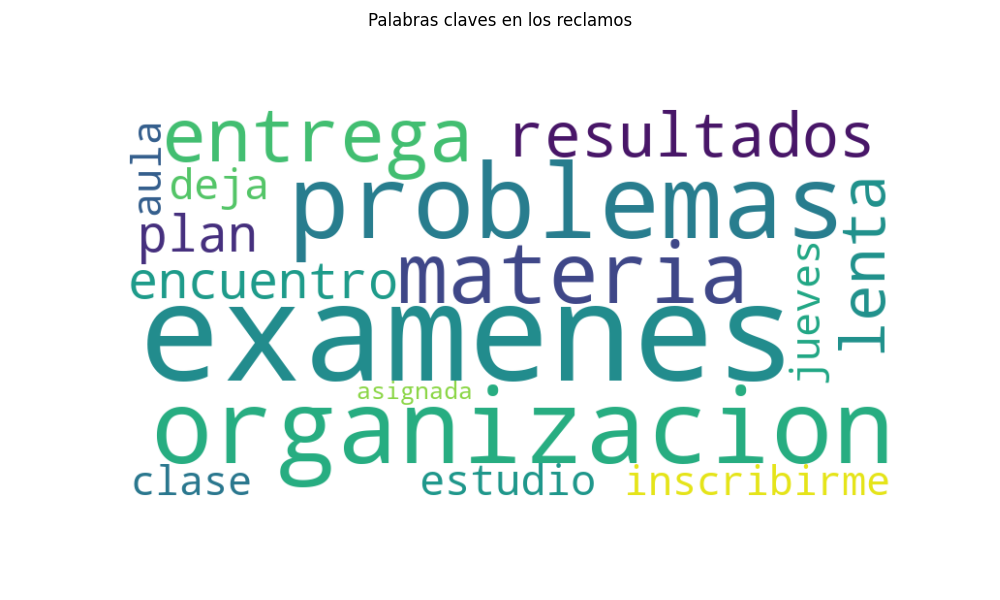
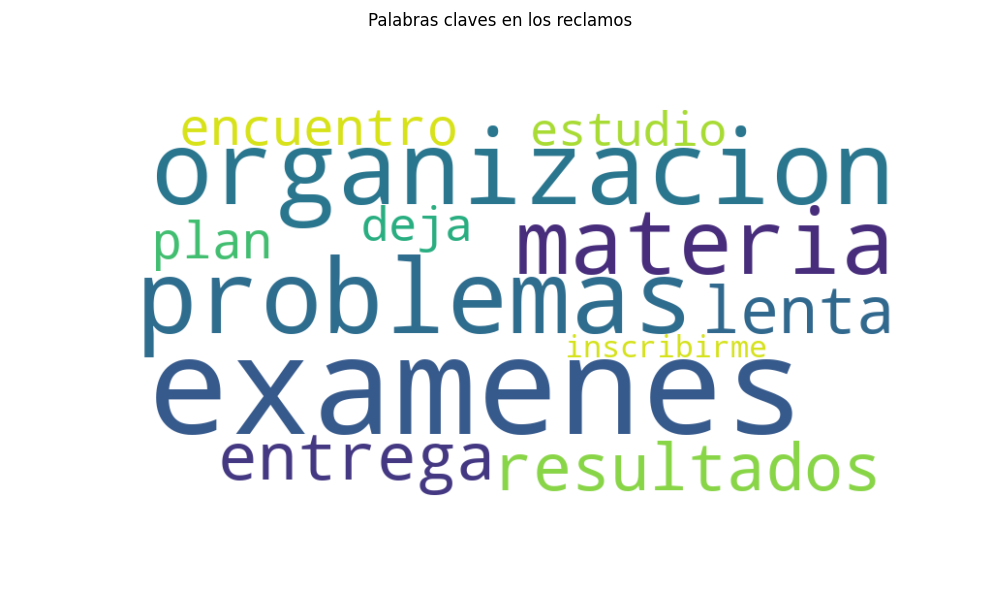
ultima actualizacion

Changed region(s): [[0.124, 0.18, 0.899, 0.84]]

diff --git a/TP 3 Programación/templates/reporte.html b/TP 3 Programación/templates/reporte.html
@@ -73,7 +73,7 @@
                     <h3 class="centrar_element"><u>REPORTE DE RECLAMOS</u></h3><br>
                     <p>Departamento: Departamento de Coordinación Académica</p>
                     <p>Jefe de departamento: Garagarza, Azul </p>
-                    <p>Fecha: 2023-07-05</p>
+                    <p>Fecha: 2023-07-06</p>
                     <table class="table2">
                         <tr>
                             <td><b>ID reclamo</b></td>
@@ -91,7 +91,7 @@
                                 <td>tuve problemas con la organizacion de la materia</td>
                                 <td>joelgaragarza1234@gmail.com</td>
                                 <td>fgaragarza@gmail.com</td>
-                                <td>Pendiente</td>
+                                <td>En proceso</td>
                                 <td>2023-06-28 17:15:27</td>
                             </tr>
                         
@@ -101,7 +101,7 @@
                                 <td>La entrega de resultados de examenes es lenta </td>
                                 <td>joelgaragarza1234@gmail.com</td>
                                 <td></td>
-                                <td>En proceso</td>
+                                <td>Invalido</td>
                                 <td>2023-06-28 17:15:52</td>
                             </tr>
                         
@@ -125,21 +125,11 @@
                                 <td>2023-07-04 20:34:01.937750</td>
                             </tr>
                         
-                            <tr>
-                                <td class="centrar">6</td>
-                                <td>No tengo aula asignada</td>
-                                <td>los jueves a las 14:00hs tengo clase y no tengo aula asignada</td>
-                                <td>usuario_prueba@gmail.com</td>
-                                <td></td>
-                                <td>Pendiente</td>
-                                <td>2023-07-05 22:28:10.328082</td>
-                            </tr>
-                        
                     </table>
                     <h4><b>OBSERVACIONES:</b></h4>
                     <div>
                         <div class="column">
-                          <div class="row"><p>Total de reclamos: 5</p></div>
+                          <div class="row"><p>Total de reclamos: 4</p></div>
                           <div class="row"><p>Reclamos resueltos: 1</p></div>
                           <div class="row"><p>Reclamos en proceso: 1</p></div>
                         </div>
@@ -147,8 +137,8 @@
                         <div class="column"></div>
                         <div class="column"></div>
                         <div class="column">
-                          <div class="row"><p>Reclamos pendientes: 3</p></div>
-                          <div class="row"><p>Reclamos inválidos: 0</p></div>
+                          <div class="row"><p>Reclamos pendientes: 1</p></div>
+                          <div class="row"><p>Reclamos inválidos: 1</p></div>
                         </div>
                       </div><br>
                       <h4><b>ESTADÍSTICA:</b></h4><br>
